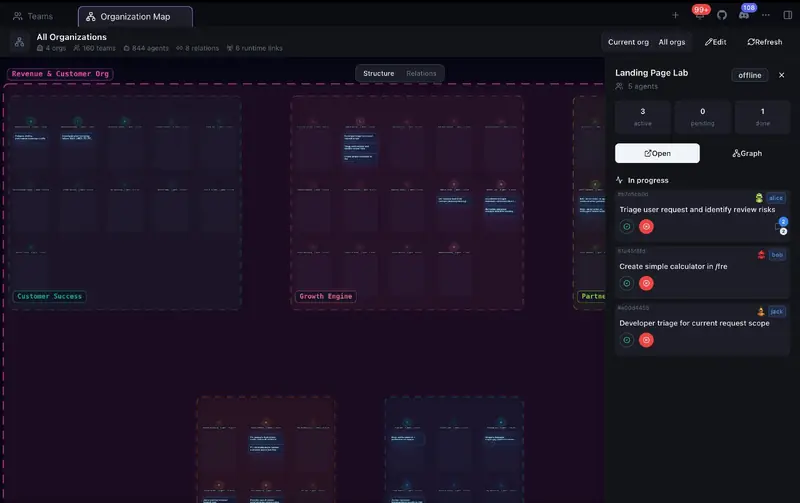
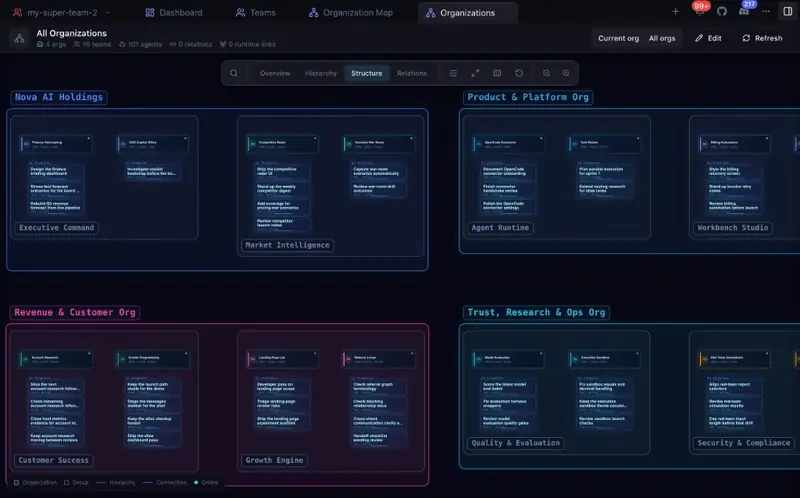
Refresh the README organization map screenshot.

diff --git a/landing/data/screenshots.ts b/landing/data/screenshots.ts
@@ -114,7 +114,7 @@ export const screenshots: Screenshot[] = [
     previewPath: 'screenshots/previews/12.webp',
     alt: 'Organization structure map with team and task details',
     ruAlt: 'Карта структуры организации с командами и деталями задач',
-    width: 2560,
-    height: 1608,
+    width: 1024,
+    height: 638,
   },
 ];
